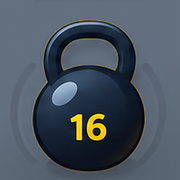
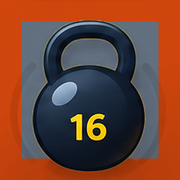
Icône à la couleur de l'activité (charte v1)
Claude-Session: https://claude.ai/code/session_01QNfJk8V2FdZHfoNhsmtJU7

diff --git a/sw.js b/sw.js
@@ -1,7 +1,7 @@
 /* Hors ligne : l'appli est gardée sur l'appareil à la première ouverture avec internet,
    puis s'ouvre sans connexion. La page est rechargée depuis GitHub dès que le réseau répond (3 s max) ;
    les autres fichiers sont servis depuis l'appareil et mis à jour en arrière-plan. */
-const CACHE='cross-training-pompidou-v5';
+const CACHE='cross-training-pompidou-v6';
 // Toutes les applis partagent le même stockage (même adresse github.io) : on n'efface QUE les anciennes versions de CETTE appli.
 const MES_CACHES=/^(?:cross\-training\-pompidou\-v)\d+$/;
 
